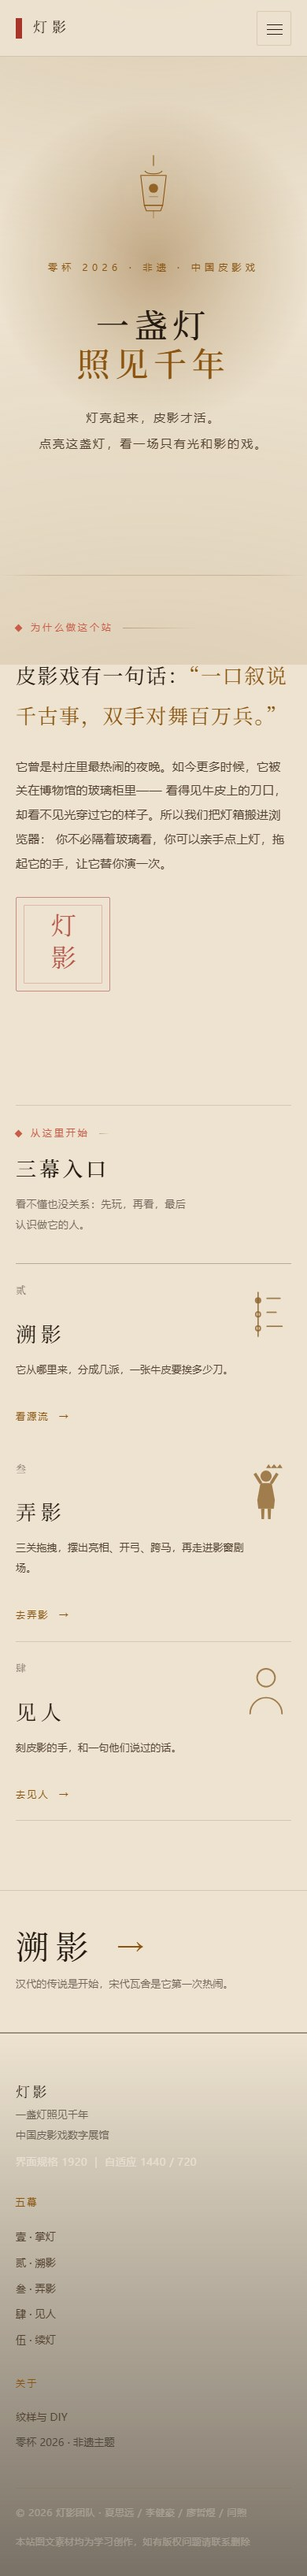
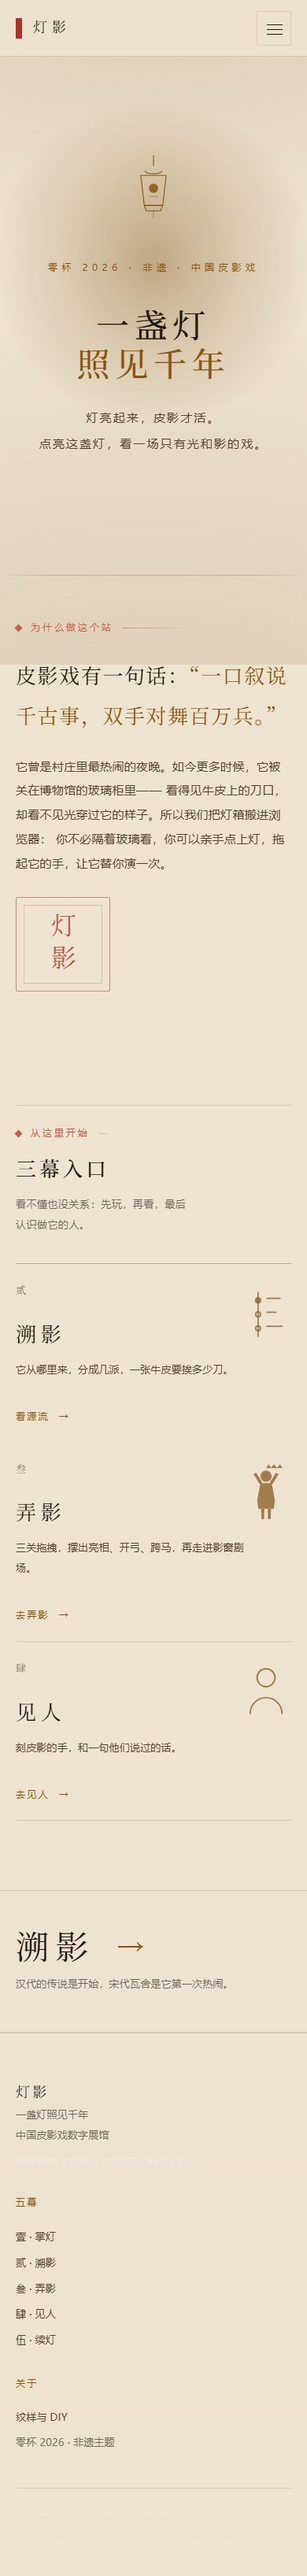
style: 纸本收尾——页脚与弹层去暗底，工序区改为纸上暗窗
- 页脚渐变、移动端抽屉、弹层、引语卡等硬编码暗底改为纸色
- 工序区原本为暗底设计，直接改亮会让标题与工序名消失；改为在纸面上保留一块暗窗（局部重声明暗色变量），与舞台、影窗一致
- 已知遗留：工序区的超大序号原是深色 alpha，在暗窗里偏弱，需单独调亮
- 回归：30 组审计 0 报错

Changed region(s): [[0.0, 0.8108, 1.0, 1.0]]

diff --git a/web/assets/css/components.css b/web/assets/css/components.css
@@ -285,7 +285,7 @@
   aspect-ratio: 4 / 3;
   border: 1px solid var(--hair);
   border-radius: var(--r-sm);
-  background: radial-gradient(120% 90% at 50% 0%, var(--gold-1), rgba(26, 20, 14, .9));
+  background: radial-gradient(120% 90% at 50% 0%, var(--gold-1), rgba(237, 227, 208, .94));
   display: grid;
   place-items: center;
   padding: 20px;
@@ -364,7 +364,7 @@
   align-items: baseline;
   gap: 12px;
   padding: 12px 20px;
-  background: rgba(10, 6, 3, .95);
+  background: rgba(246, 239, 225, .97);
   border: 1px solid var(--line-strong);
   border-left: 2px solid var(--lamp);
   box-shadow: 0 24px 50px -30px #000;
@@ -492,7 +492,7 @@
   align-items: center;
   gap: 12px;
   padding: 24px 44px 24px;
-  background: rgba(10, 6, 3, .88);
+  background: rgba(246, 239, 225, .95);
   border: 1px solid var(--line-strong);
   box-shadow: 0 30px 70px -40px #000;
   z-index: 10;
@@ -735,7 +735,7 @@
   transform: translateX(-50%);
   padding: 8px 16px;
   border-radius: 999px;
-  background: rgba(10, 6, 3, .94);
+  background: rgba(246, 239, 225, .96);
   border: 1px solid var(--gold-3);
   font-size: var(--fs-small);
   letter-spacing: .1em;
@@ -1299,4 +1299,21 @@ a[aria-disabled="true"],
   --gold-2: rgba(201, 162, 39, .20);
   --gold-3: rgba(201, 162, 39, .32);
   --gold-4: rgba(201, 162, 39, .65);
+}
+/* 工序区块：纸面上不再压暗底 */
+.crafts, .crafts-block, .crafts-wrap { background: transparent; }
+/* 工序区本来是为暗底设计的，强制改亮会让标题消失——改为"纸上的暗窗" */
+.crafts-block, .crafts {
+  background: #14100B;
+  --paper: #F4EDE0;
+  --paper-dim: #C3B6A3;
+  --paper-faint: rgba(244, 237, 224, .52);
+  --hair: rgba(244, 237, 224, .10);
+  --hair-strong: rgba(244, 237, 224, .22);
+  --lamp: #C9A227;
+  --gold-1: rgba(201, 162, 39, .13);
+  --gold-2: rgba(201, 162, 39, .20);
+  --gold-3: rgba(201, 162, 39, .32);
+  --gold-4: rgba(201, 162, 39, .65);
+  --cinnabar-lit: #C85C48;
 }

diff --git a/web/assets/css/base.css b/web/assets/css/base.css
@@ -226,7 +226,7 @@ h3 { font-size: var(--fs-h3); line-height: 1.5; letter-spacing: .1em; }
     align-items: flex-start;
     gap: 4px;
     padding: 20px var(--page) 28px;
-    background: rgba(12, 9, 6, .97);
+    background: rgba(237, 227, 208, .98);
     border-bottom: 1px solid var(--line);
     transform: translateY(-12px);
     opacity: 0;
@@ -241,7 +241,7 @@ h3 { font-size: var(--fs-h3); line-height: 1.5; letter-spacing: .1em; }
 .footer {
   border-top: 1px solid var(--hair);
   padding-block: clamp(56px, 7vw, 88px) clamp(32px, 4vw, 48px);
-  background: linear-gradient(180deg, rgba(26, 20, 14, 0), rgba(26, 20, 14, .55));
+  background: linear-gradient(180deg, rgba(237, 227, 208, 0), rgba(237, 227, 208, .92));
 }
 .footer__grid {
   display: grid;
